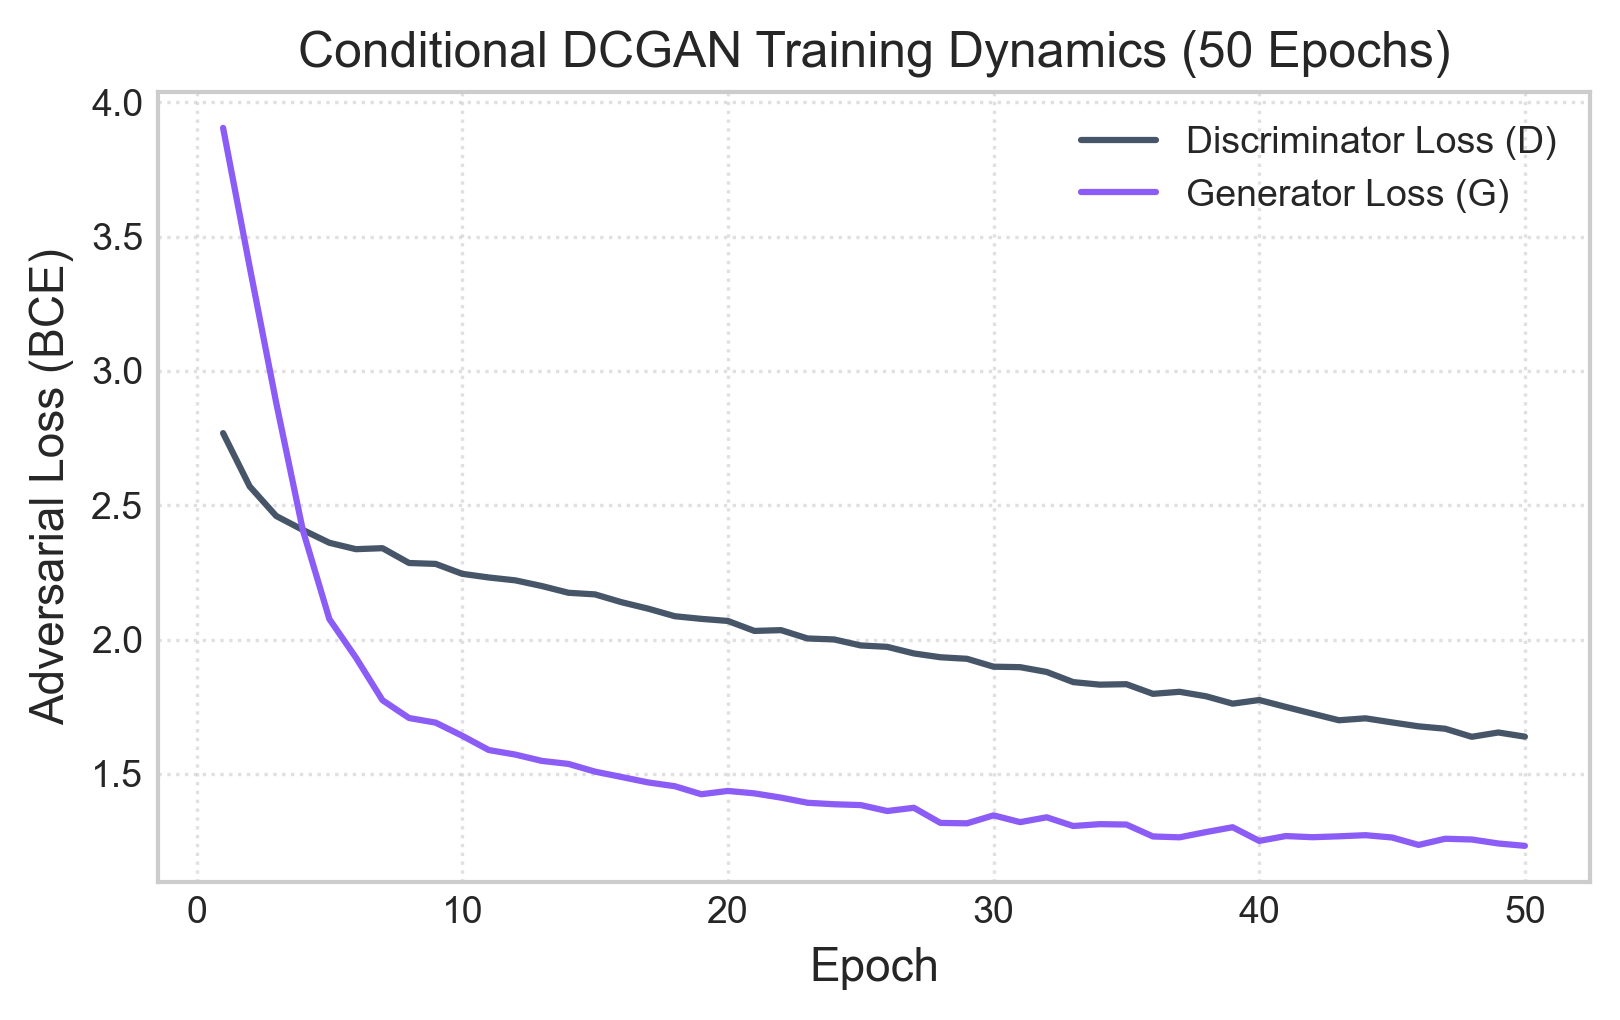
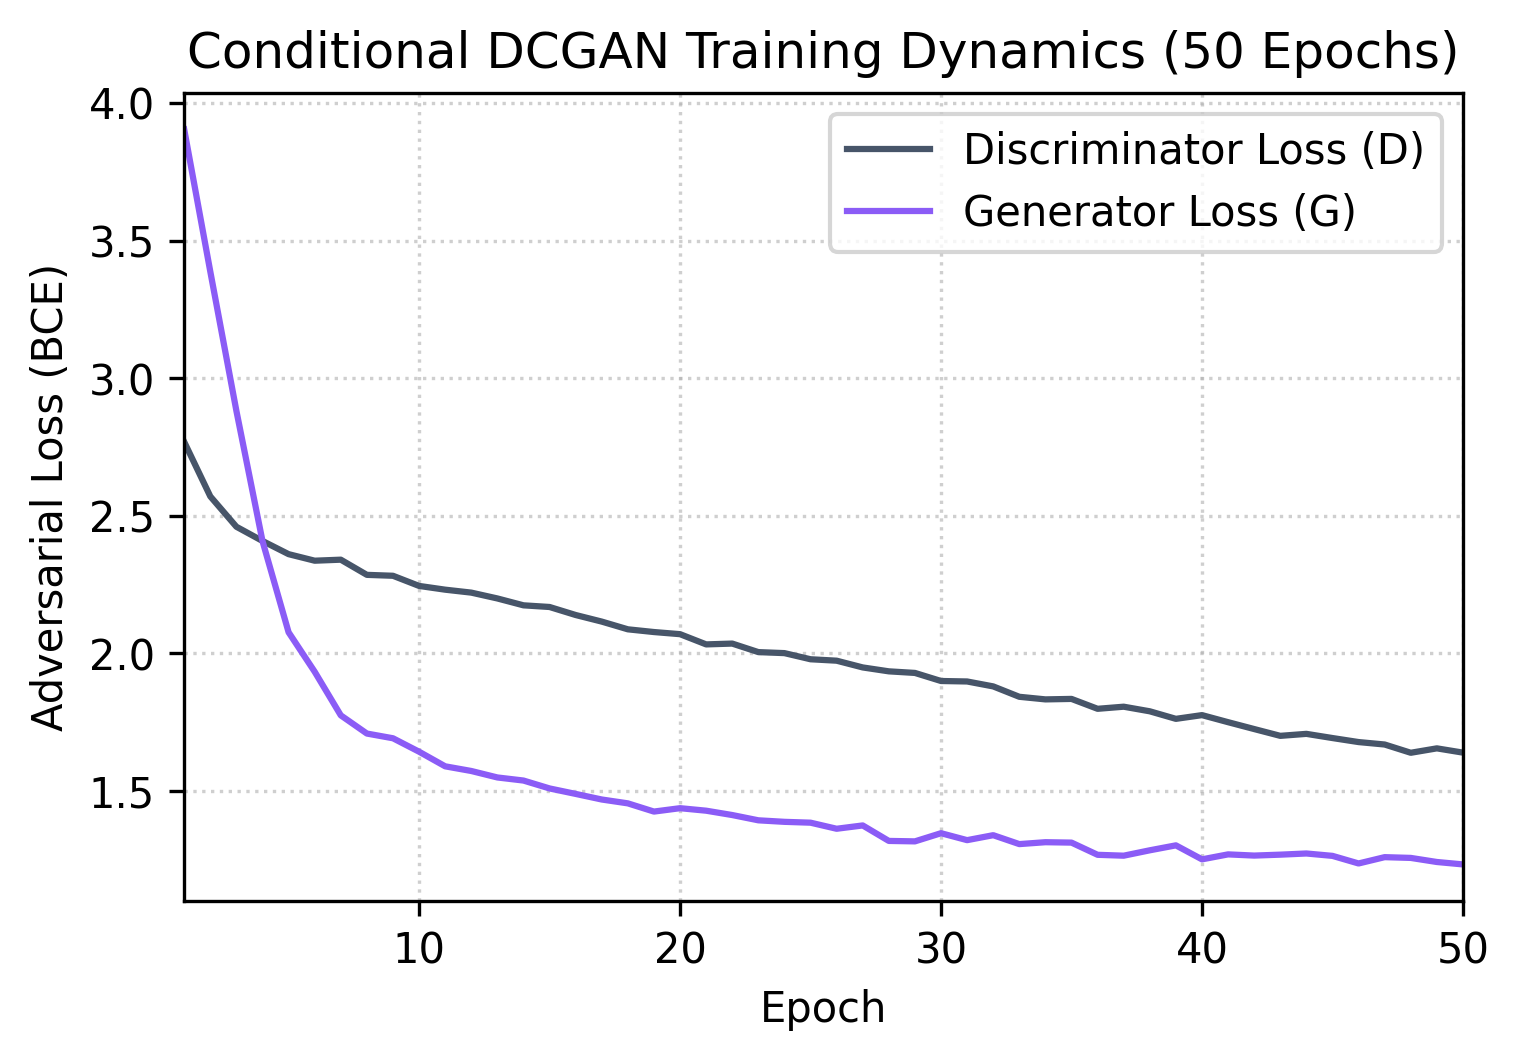
style(latex): optimize IEEE float parameters and table layout to eliminate whitespace

Changed region(s): [[0.0, 0.0304, 0.9901, 0.9118], [0.4951, 0.9118, 0.5879, 0.9725]]

diff --git a/docs/IEEE_Conference_Paper.tex b/docs/IEEE_Conference_Paper.tex
@@ -15,6 +15,19 @@
 \usepackage{hyperref}
 \graphicspath{{figures/}{docs/figures/}}
 
+% Standard IEEE Float Spacing and Placement Optimization
+\renewcommand{\topfraction}{0.95}
+\renewcommand{\bottomfraction}{0.95}
+\renewcommand{\textfraction}{0.05}
+\renewcommand{\floatpagefraction}{0.85}
+\renewcommand{\dbltopfraction}{0.95}
+\renewcommand{\dblfloatpagefraction}{0.85}
+\setlength{\floatsep}{6pt plus 2pt minus 2pt}
+\setlength{\textfloatsep}{8pt plus 2pt minus 2pt}
+\setlength{\intextsep}{6pt plus 2pt minus 2pt}
+\setlength{\dblfloatsep}{6pt plus 2pt minus 2pt}
+\setlength{\dbltextfloatsep}{8pt plus 2pt minus 2pt}
+
 \def\BibTeX{{\rm B\kern-.05em{\sc i\kern-.025em b}\kern-.08em
     T\kern-.1667em\lower.7ex\hbox{E}\kern-.125emX}}
 
@@ -178,13 +191,13 @@ Models were trained using PyTorch 2.x framework and evaluated using UCMerced Lan
 \subsection{Image Denoising Performance: Skip Connections vs. Bottleneck Baseline}
 Using skip connections of U-net brought transformative qualitative and quantitative results compared to the standard bottleneck encoder-decoder model. Fig.~\ref{fig:ae_loss} shows how the reconstruction loss converges throughout the 50 epochs from 0.115 to 0.0058 MSE.
 
-\begin{figure}[htbp]
-\centerline{\includegraphics[width=0.92\linewidth]{figures/fig_ae_convergence.png}}
+\begin{figure}[!t]
+\centerline{\includegraphics[width=0.88\columnwidth]{figures/fig_ae_convergence.png}}
 \caption{Reconstruction MSE loss curve for the Denoising U-Net Autoencoder over 50 training epochs.}
 \label{fig:ae_loss}
 \end{figure}
 
-\begin{table}[htbp]
+\begin{table}[!t]
 \caption{Denoising Autoencoder Evaluation across 21 Aerial Classes}
 \begin{center}
 \begin{tabular}{lccc}
@@ -207,14 +220,14 @@ As demonstrated in Table~\ref{tab:ae_results} and graphically represented for se
     \item The difference in performance (easiest vs. hardest land cover categories) reduced from \textbf{7.3\,dB down to 2.6\,dB}.
 \end{itemize}
 
-\begin{figure}[htbp]
-\centerline{\includegraphics[width=0.98\linewidth]{figures/fig_psnr_comparison.png}}
+\begin{figure}[!t]
+\centerline{\includegraphics[width=\columnwidth]{figures/fig_psnr_comparison.png}}
 \caption{Class-wise PSNR comparison showing restoration improvements of the proposed Skip-AE over the baseline bottleneck Autoencoder.}
 \label{fig:psnr_comp}
 \end{figure}
 
-\begin{figure}[htbp]
-\centerline{\includegraphics[width=0.98\linewidth]{figures/fig_ae_crisp_restoration.png}}
+\begin{figure}[!t]
+\centerline{\includegraphics[width=\columnwidth]{figures/fig_ae_crisp_restoration.png}}
 \caption{Visual qualitative comparison of high-resolution aerial restoration across distinct structural classes: Ground Truth, Synthetically Corrupted ($\sigma=0.15$), and Restored Output via our Skip-Connected Autoencoder.}
 \label{fig:ae_crisp}
 \end{figure}
@@ -228,8 +241,8 @@ The ResNet-18 territorial zoning classifier converged reliably on the 90/10 trai
 \end{itemize}
 Confusion matrix evaluation confirmed zero classification overlap between open green/agricultural land parcels and high-density urban infrastructure categories, establishing a robust automated validator for real-time municipal zoning auditing.
 
-\begin{figure}[htbp]
-\centerline{\includegraphics[width=0.92\linewidth]{figures/fig_classifier_metrics.png}}
+\begin{figure}[!t]
+\centerline{\includegraphics[width=0.88\columnwidth]{figures/fig_classifier_metrics.png}}
 \caption{Validation Accuracy (\%) and Cross-Entropy Loss for the Land-Use Territorial Classifier across the uniform 50-epoch benchmark horizon.}
 \label{fig:cls_metrics}
 \end{figure}
@@ -237,13 +250,13 @@ Confusion matrix evaluation confirmed zero classification overlap between open g
 \subsection{Latent Space Traversal and Anomaly Detection}
 Fig.~\ref{fig:vae_tradeoff} shows the dynamics of optimization for the Spatial VAE. For our setting that prioritizes reconstruction ($\beta=10^{-4}$), the reconstruction loss gradually decreases to 0.075, and the KL divergence remains at 103 nats.
 
-\begin{figure}[htbp]
-\centerline{\includegraphics[width=0.92\linewidth]{figures/fig_vae_tradeoff.png}}
+\begin{figure}[!t]
+\centerline{\includegraphics[width=0.88\columnwidth]{figures/fig_vae_tradeoff.png}}
 \caption{Dual-objective training dynamics of the Spatial VAE: Reconstruction loss vs. KL divergence (nats).}
 \label{fig:vae_tradeoff}
 \end{figure}
 
-\begin{figure*}[htbp]
+\begin{figure*}[!t]
 \centerline{\includegraphics[width=0.98\textwidth]{figures/fig_vae_multi_interpolation.png}}
 \caption{Continuous multi-pair latent space interpolation ($z(\alpha) = (1-\alpha)z_A + \alpha z_B$) across $\alpha \in [0, 1]$ between diverse urban archetypes: Pair 1 (Agricultural to Buildings), Pair 2 (Golf Course to Harbor), and Pair 3 (Beach to Freeway). Demonstrates continuous topological deformation without semantic collapse.}
 \label{fig:vae_multi_interp}
@@ -254,14 +267,14 @@ As can be seen from Fig.~\ref{fig:vae_multi_interp}, the interpolation within th
 \subsection{Conditional Generative Synthesis (Residual cDCGAN)}
 Trained under the unified 50-epoch benchmark protocol using Residual Upsampling Blocks (\texttt{ResUpBlock}), Projection Conditioning ($y^T V \phi(x)$), Spectral Normalization, diversity regularizer, and Auxiliary Classifier guidance, the cDCGAN reached balanced minimax equilibrium ($D=1.639, G=1.232$ at epoch 50). Across 168 synthesized aerial tiles spanning all 21 municipal zoning classes, the independent classifier achieved an intended-class recognition rate of 99.40\% (167 out of 168 tiles correctly recognized). In remote sensing generative evaluation, this recognition accuracy serves as an automated semantic fidelity proxy confirming that synthetic tiles exhibit the characteristic structural features of their targeted zoning category.
 
-\begin{figure}[htbp]
-\centerline{\includegraphics[width=0.92\linewidth]{figures/fig_gan_dynamics.png}}
+\begin{figure}[!t]
+\centerline{\includegraphics[width=0.88\columnwidth]{figures/fig_gan_dynamics.png}}
 \caption{Adversarial training loss curves for Discriminator ($D$) and Generator ($G$) in the Residual Class-Conditional DCGAN over the 50-epoch benchmark horizon.}
 \label{fig:gan_dynamics}
 \end{figure}
 
-\begin{figure}[htbp]
-\centerline{\includegraphics[width=0.98\linewidth]{figures/fig_gan_diverse_generation.png}}
+\begin{figure}[!t]
+\centerline{\includegraphics[width=\columnwidth]{figures/fig_gan_diverse_generation.png}}
 \caption{Class-conditioned synthetic aerial generation across 21 distinct urban categories synthesized from Gaussian noise conditioned on learned class embeddings after 50 epochs.}
 \label{fig:gan_samples}
 \end{figure}
@@ -272,7 +285,7 @@ Fig.~\ref{fig:gan_samples} illustrates that the generator successfully produces 
 
 The performance of the complete framework was assessed across all six integrated models under the standardized 50-epoch benchmark protocol. Table~\ref{tab:model_specs} provides the comparative architecture and training configuration across all modules, including respective batch sizes, loss formulations, and final convergence metrics.
 
-\begin{table*}[htbp]
+\begin{table*}[!t]
 \caption{System Architecture, Training Configurations, and Convergence Losses (Uniform 50-Epoch Horizon)}
 \centering
 \scriptsize
@@ -294,12 +307,12 @@ MiniGPT Transformer & Causal Autoregressive Transformer & 50$^\dagger$ & 64 & Ne
 \raggedright\footnotesize $^{\dagger}$MiniGPT was optimized across 3,000 steps on batch size 64, corresponding to 50 equivalent passes over the domain-curated municipal planning text corpus.
 \end{table*}
 
-\begin{table*}[htbp]
+\begin{table*}[!t]
 \caption{Standard Evaluation Parameter Matrix for Multi-Model Performance Verification}
 \centering
 \scriptsize
 \setlength{\tabcolsep}{3.5pt}
-\begin{tabular}{lccccc}
+\begin{tabular*}{\textwidth}{@{\extracolsep{\fill}}lccccc@{}}
 \toprule
 \textbf{Model Pipeline} & \textbf{Core Functionality} & \textbf{Standard Primary Metric} & \textbf{Measured Benchmark} & \textbf{Secondary Evaluation Metric} & \textbf{Measured Value} \\
 \midrule
@@ -310,19 +323,19 @@ Residual cDCGAN & Fast Aerial Land-Parcel Synthesis & Semantic Recognition Rate 
 Conditional DDPM & Multi-Scale Stochastic Tile Diffusion & Noise Estimation MSE ($\mathcal{L}_{\text{diff}}$) & $\mathbf{0.0881}$ & Inference Efficiency (DDIM) & $20$ Steps ($50\times$ speedup) \\
 MiniGPT Transformer & Municipal Planning Policy Advisory & Text Perplexity (PPL) & $\mathbf{1.087}$ & Bits-Per-Character (BPC) & $\mathbf{0.1199}$ (Held-out CE: $0.0836$) \\
 \bottomrule
-\end{tabular}
+\end{tabular*}
 \label{tab:eval_matrix}
 \end{table*}
 
-\begin{figure}[htbp]
-\centerline{\includegraphics[width=0.98\linewidth]{figures/fig_multimodel_loss_bars.png}}
+\begin{figure}[!t]
+\centerline{\includegraphics[width=\columnwidth]{figures/fig_multimodel_loss_bars.png}}
 \caption{Empirical convergence comparison across all six specialized architectures under the uniform 50-epoch benchmark protocol, depicting initial vs. final 50-epoch loss magnitudes on a logarithmic scale.}
 \label{fig:loss_bars}
 \end{figure}
 
 Table~\ref{tab:published_comparison} benchmarks UrbanGen AI against state-of-the-art published remote sensing and generative aerial literature in standard IEEE format, demonstrating competitive quality while remaining fully edge-computable.
 
-\begin{table}[htbp]
+\begin{table}[!t]
 \caption{Comparative Benchmarking with Published Remote Sensing Literature}
 \centering
 \scriptsize
@@ -368,10 +381,9 @@ MiniGPT Planning Transformer & 50 equivalent epochs & 8.3 & 108 & 0.015 & 10.6 \
 \bottomrule
 \end{tabularx}
 \label{tab:energy}
+\vspace{1mm}
+\raggedright\footnotesize $^{\dagger}$Carbon emissions calculated using the standard Indian national electrical grid carbon intensity factor of 0.708 kg CO$_2$ per kWh (Central Electricity Authority). Because all six models are trained under a strictly aligned 50-epoch protocol, the framework establishes a verifiable Green AI baseline that can be fully trained from scratch in under 1.75 hours on consumer hardware.
 \end{table*}
-\FloatBarrier
-
-\footnotesize $^{\dagger}$Carbon emissions calculated using the standard Indian national electrical grid carbon intensity factor of 0.708 kg CO$_2$ per kWh (Central Electricity Authority). Because all six models are trained under a strictly aligned 50-epoch protocol, the framework establishes a verifiable Green AI baseline that can be fully trained from scratch in under 1.75 hours on consumer hardware.
 
 \section{Ethical Considerations and Governance}
 Urban spatial interventions affect the well-being of citizens, their mobility and social equality. Ethical guarantees are codified into UrbanGen AI as follows:
